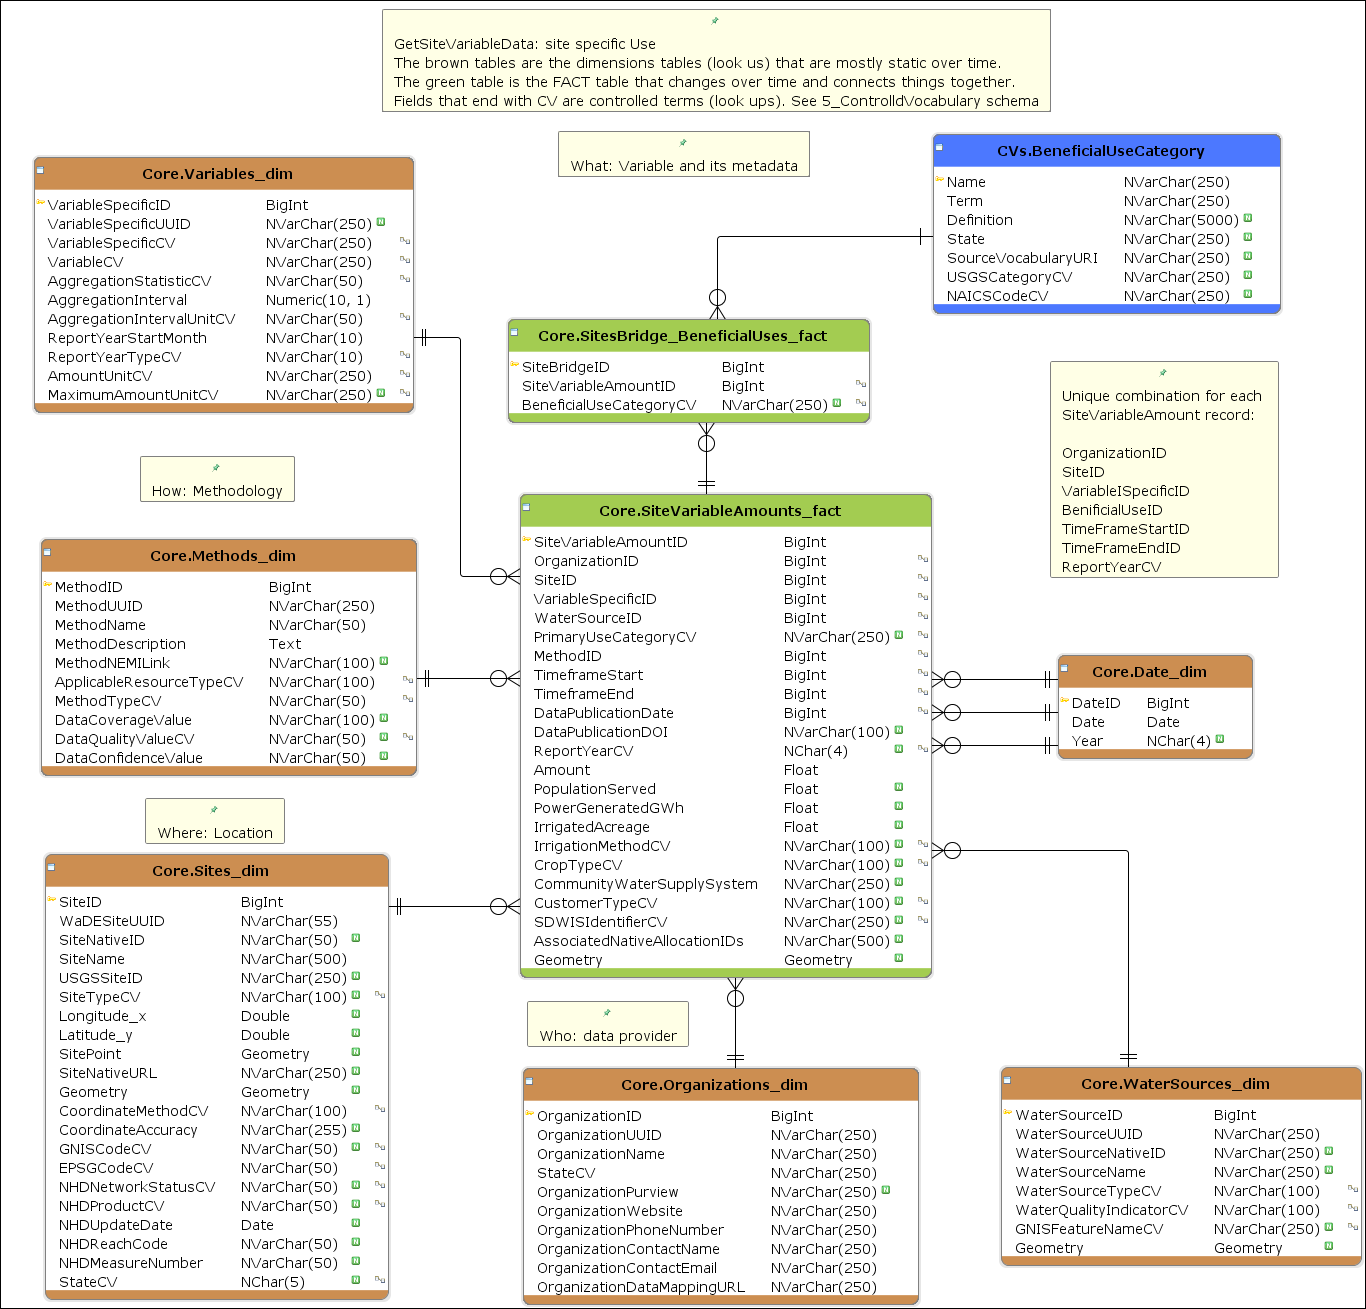
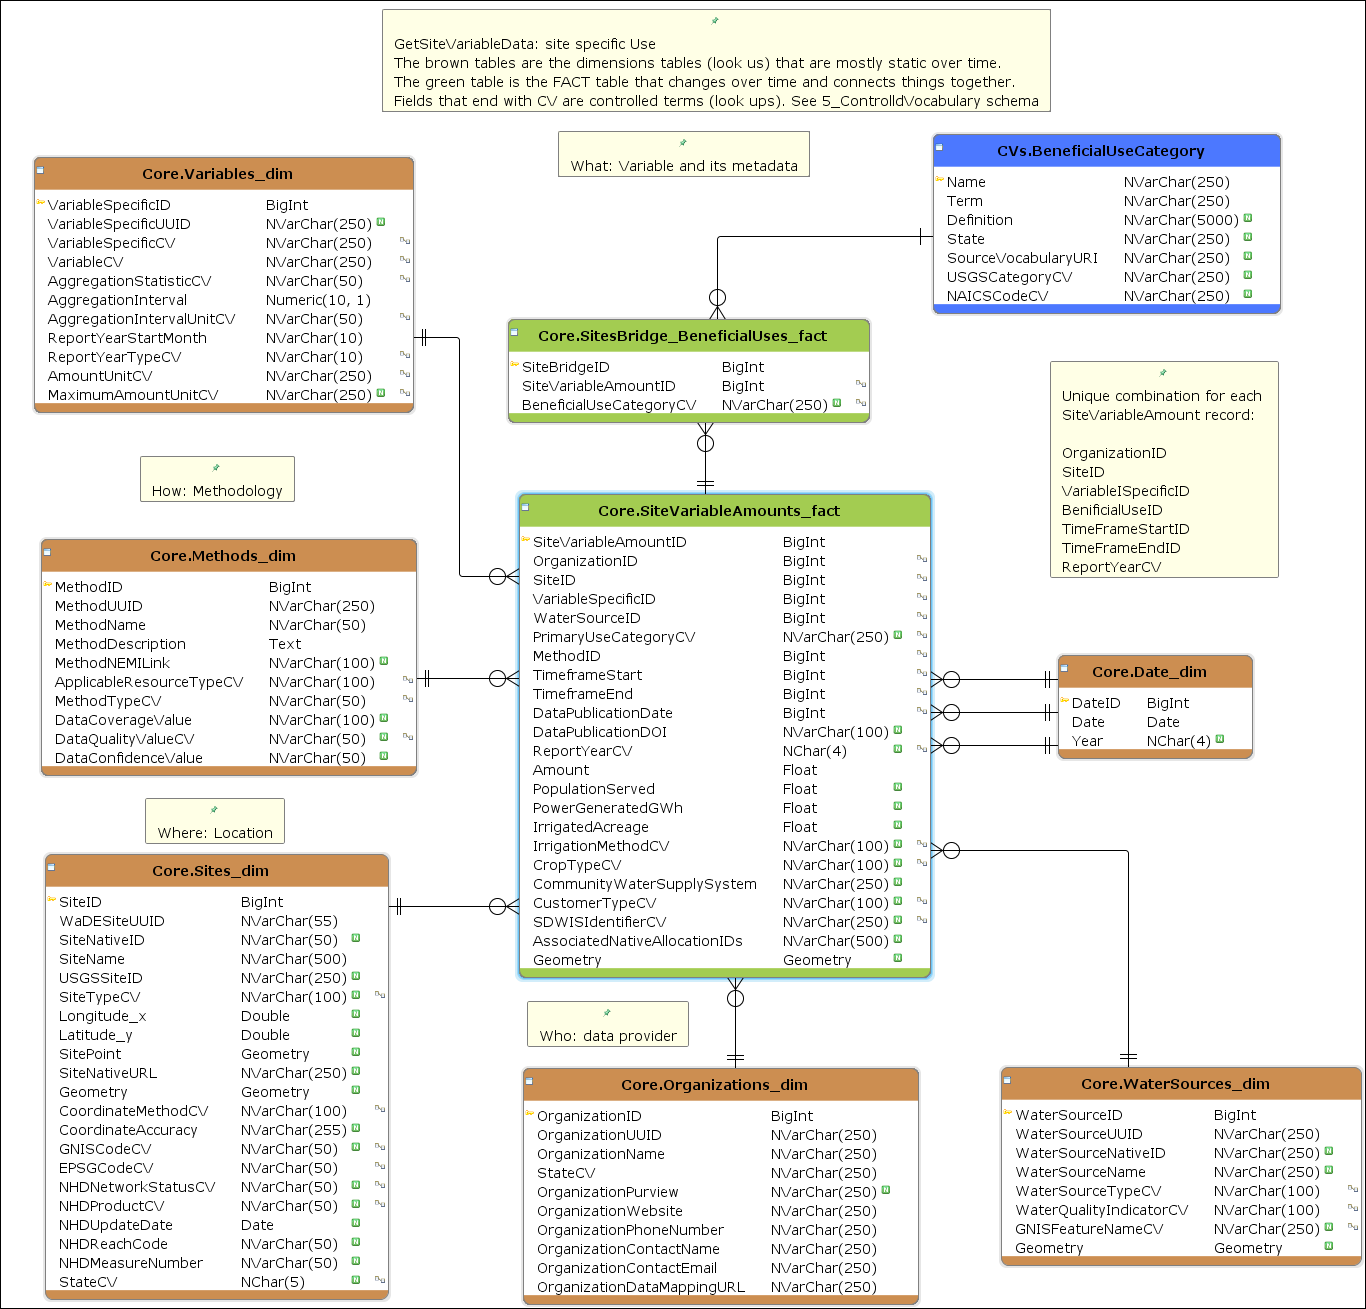
add primary benifical use to the input tables

Changed region(s): [[0.369, 0.3667, 0.7072, 0.7639]]

diff --git a/docs/tables/Input_SiteVariableAmounts_fact.html b/docs/tables/Input_SiteVariableAmounts_fact.html
@@ -36,87 +36,93 @@
 <td> </td><td><a href="../columns/Input_SiteVariableAmounts_fact_BeneficialUseCategoryCV.html">BeneficialUseCategoryCV</a></td><td>NVarChar(500)</td><td> </td><td> </td><td> </td><td> </td><td> </td>
 </tr>
 <tr>
+<td> </td><td><a href="../columns/Input_SiteVariableAmounts_fact_PrimaryUseCategoryCV.html">PrimaryUseCategoryCV</a></td><td>NVarChar(250)</td><td>
+<p class="boolImg">
+<img src="../images/ok12d.gif"></p>
+</td><td> </td><td> </td><td>If multiple beneficial uses are specified, add primary use category	</td><td> </td>
+</tr>
+<tr class="altRow">
 <td> </td><td><a href="../columns/Input_SiteVariableAmounts_fact_WaterSourceNativeID.html">WaterSourceNativeID</a></td><td>NVarChar(250)</td><td> </td><td> </td><td> </td><td>foreign key unique identifier to water source</td><td> </td>
 </tr>
-<tr class="altRow">
+<tr>
 <td> </td><td><a href="../columns/Input_SiteVariableAmounts_fact_MethodName.html">MethodName</a></td><td>NVarChar(250)</td><td> </td><td> </td><td> </td><td> </td><td> </td>
 </tr>
-<tr>
+<tr class="altRow">
 <td> </td><td><a href="../columns/Input_SiteVariableAmounts_fact_TimeframeStartDate.html">TimeframeStartDate</a></td><td>Date</td><td> </td><td> </td><td> </td><td>Start date for the allocation each year in MM/DD/YYYY</td><td> </td>
 </tr>
-<tr class="altRow">
+<tr>
 <td> </td><td><a href="../columns/Input_SiteVariableAmounts_fact_TimeframeEndDate.html">TimeframeEndDate</a></td><td>Date</td><td> </td><td> </td><td> </td><td>End date for the allocation each year in MM/DD/YYYY	</td><td> </td>
 </tr>
-<tr>
+<tr class="altRow">
 <td> </td><td><a href="../columns/Input_SiteVariableAmounts_fact_ReportYearCV.html">ReportYearCV</a></td><td>NVarChar(4)</td><td> </td><td> </td><td> </td><td>Annual reporting period that this data are valid. There is a need to ensure the annual reporting period year matches the type of year used by the data provider. For example, if the data are valid for November 2018, the annual reporting period could be 2018 or 2019 depending on whether the data provider uses a calendar or water year.</td><td> </td>
 </tr>
-<tr class="altRow">
+<tr>
 <td> </td><td><a href="../columns/Input_SiteVariableAmounts_fact_Amount.html">Amount</a></td><td>Float</td><td>
 <p class="boolImg">
 <img src="../images/ok12d.gif"></p>
 </td><td> </td><td> </td><td> </td><td> </td>
 </tr>
-<tr>
+<tr class="altRow">
 <td> </td><td><a href="../columns/Input_SiteVariableAmounts_fact_PowerGeneratedGWh.html">PowerGeneratedGWh</a></td><td>Float</td><td>
 <p class="boolImg">
 <img src="../images/ok12d.gif"></p>
 </td><td> </td><td> </td><td>GWh to be generated by the aggregated variable amount, if thermoelectric is a specified beneficial use	</td><td> </td>
 </tr>
-<tr class="altRow">
+<tr>
 <td> </td><td><a href="../columns/Input_SiteVariableAmounts_fact_IrrigationMethodCV.html">IrrigationMethodCV</a></td><td>NVarChar(100)</td><td>
 <p class="boolImg">
 <img src="../images/ok12d.gif"></p>
 </td><td> </td><td> </td><td>The irrigation method used by the irrigator. This could be Flood, Sprinkler, Micro-drip, Laser-leveled Flood, Combination, or Unspecified</td><td> </td>
 </tr>
-<tr>
+<tr class="altRow">
 <td> </td><td><a href="../columns/Input_SiteVariableAmounts_fact_CropTypeCV.html">CropTypeCV</a></td><td>NVarChar(100)</td><td>
 <p class="boolImg">
 <img src="../images/ok12d.gif"></p>
 </td><td> </td><td> </td><td>If the amount of water used is associated with an irrigated acreage of a specific crop type, this can be added. These would be Wheat, Alfalfa, Corn, Hay, etc.</td><td> </td>
 </tr>
-<tr class="altRow">
+<tr>
 <td> </td><td><a href="../columns/Input_SiteVariableAmounts_fact_IrrigatedAcreage.html">IrrigatedAcreage</a></td><td>Float</td><td>
 <p class="boolImg">
 <img src="../images/ok12d.gif"></p>
 </td><td> </td><td> </td><td>Number of acres irrigated by the aggregated variable amount, if irrigation or agriculture is a specified beneficial use</td><td> </td>
 </tr>
-<tr>
+<tr class="altRow">
 <td> </td><td><a href="../columns/Input_SiteVariableAmounts_fact_PopulationServed.html">PopulationServed</a></td><td>Float</td><td>
 <p class="boolImg">
 <img src="../images/ok12d.gif"></p>
 </td><td> </td><td> </td><td>Population served by the aggregated variable amount, If municipal or community water supply is a specified beneficial use</td><td> </td>
 </tr>
-<tr class="altRow">
+<tr>
 <td> </td><td><a href="../columns/Input_SiteVariableAmounts_fact_CommunityWaterSupplySystem.html">CommunityWaterSupplySystem</a></td><td>NVarChar(250)</td><td>
 <p class="boolImg">
 <img src="../images/ok12d.gif"></p>
 </td><td> </td><td> </td><td>If the use is municipal, the data provider can add the SDWIS identifier for the CWS. Only for site specific data. Leave it null for aggregate data</td><td> </td>
 </tr>
-<tr>
+<tr class="altRow">
 <td> </td><td><a href="../columns/Input_SiteVariableAmounts_fact_CustomerTypeCV.html">CustomerTypeCV</a></td><td>NVarChar(100)</td><td>
 <p class="boolImg">
 <img src="../images/ok12d.gif"></p>
 </td><td> </td><td> </td><td>Residential, Commercial, Industrial, Institutional, Combined, Unspecified </td><td> </td>
 </tr>
-<tr class="altRow">
+<tr>
 <td> </td><td><a href="../columns/Input_SiteVariableAmounts_fact_SDWISIdentifierCV.html">SDWISIdentifierCV</a></td><td>NVarChar(250)</td><td>
 <p class="boolImg">
 <img src="../images/ok12d.gif"></p>
 </td><td> </td><td> </td><td>If the use is municipal, the data provider can add the SDWIS identifier for the CWS</td><td> </td>
 </tr>
-<tr>
+<tr class="altRow">
 <td> </td><td><a href="../columns/Input_SiteVariableAmounts_fact_Geometry.html">Geometry</a></td><td>Geometry</td><td>
 <p class="boolImg">
 <img src="../images/ok12d.gif"></p>
 </td><td> </td><td> </td><td>Well-Known Text (WKT): The GIS objects supported by PostGIS are a superset of the "Simple Features" defined by the OpenGIS Consortium (OGC). PostGIS supports all the objects and functions specified in the OGC "Simple Features for SQL" specification.</td><td> </td>
 </tr>
-<tr class="altRow">
+<tr>
 <td> </td><td><a href="../columns/Input_SiteVariableAmounts_fact_AssociatedNativeAllocationIDs.html">AssociatedNativeAllocationIDs</a></td><td>NVarChar(500)</td><td>
 <p class="boolImg">
 <img src="../images/ok12d.gif"></p>
 </td><td> </td><td> </td><td> </td><td> </td>
 </tr>
-<tr>
+<tr class="altRow">
 <td> </td><td><a href="../columns/Input_SiteVariableAmounts_fact_DataPublicationDOI.html">DataPublicationDOI</a></td><td>NVarChar(250)</td><td>
 <p class="boolImg">
 <img src="../images/ok12d.gif"></p>

diff --git a/docs/diagrams/6_InputTables.html b/docs/diagrams/6_InputTables.html
@@ -15,8 +15,8 @@
 <br>
 <map id="imgmap" name="imgmap">
 <area coords="1092, 112, 1503, 557" href="../tables/Input_AggregatedAmounts_fact.html" shape="rect">
-<area coords="25, 106, 503, 703" href="../tables/Input_AllocationAmounts_fact.html" shape="rect">
-<area coords="582, 109, 993, 554" href="../tables/Input_SiteVariableAmounts_fact.html" shape="rect">
+<area coords="25, 105, 503, 702" href="../tables/Input_AllocationAmounts_fact.html" shape="rect">
+<area coords="581, 108, 992, 572" href="../tables/Input_SiteVariableAmounts_fact.html" shape="rect">
 <area coords="1121, 577, 1464, 699" href="../tables/Input_RegulatoryReportingUnits_fact.html" shape="rect">
 <area coords="592, 613, 935, 982" href="../tables/Input_Sites_dim.html" shape="rect">
 <area coords="4, 1002, 383, 1219" href="../tables/Input_Variables_dim.html" shape="rect">

diff --git a/docs/diagrams/1_WaterAllocations.html b/docs/diagrams/1_WaterAllocations.html
@@ -19,7 +19,7 @@
 <area coords="979, 1255, 1339, 1453" href="../tables/Core_WaterSources_dim.html" shape="rect">
 <area coords="18, 256, 397, 511" href="../tables/Core_Variables_dim.html" shape="rect">
 <area coords="510, 1241, 905, 1477" href="../tables/Core_Organizations_dim.html" shape="rect">
-<area coords="502, 497, 1001, 1170" href="../tables/Core_AllocationAmounts_fact.html" shape="rect">
+<area coords="502, 496, 1001, 1169" href="../tables/Core_AllocationAmounts_fact.html" shape="rect">
 <area coords="565, 303, 928, 406" href="../tables/Core_AllocationBridge_BeneficialUses_fact.html" shape="rect">
 <area coords="47, 1065, 390, 1510" href="../tables/Core_Sites_dim.html" shape="rect">
 <area coords="1013, 62, 1360, 241" href="../tables/CVs_BeneficialUseCategory.html" shape="rect">

diff --git a/docs/diagrams/2_SiteSpecificAmounts.html b/docs/diagrams/2_SiteSpecificAmounts.html
@@ -19,7 +19,7 @@
 <area coords="34, 157, 413, 412" href="../tables/Core_Variables_dim.html" shape="rect">
 <area coords="508, 319, 869, 422" href="../tables/Core_SitesBridge_BeneficialUses_fact.html" shape="rect">
 <area coords="45, 854, 388, 1299" href="../tables/Core_Sites_dim.html" shape="rect">
-<area coords="520, 494, 931, 977" href="../tables/Core_SiteVariableAmounts_fact.html" shape="rect">
+<area coords="519, 494, 930, 977" href="../tables/Core_SiteVariableAmounts_fact.html" shape="rect">
 <area coords="1058, 655, 1252, 758" href="../tables/Core_Date_dim.html" shape="rect">
 <area coords="523, 1068, 918, 1304" href="../tables/Core_Organizations_dim.html" shape="rect">
 <area coords="933, 134, 1280, 313" href="../tables/CVs_BeneficialUseCategory.html" shape="rect">

diff --git a/docs/diagrams/3_AggregatedAmounts.html b/docs/diagrams/3_AggregatedAmounts.html
@@ -17,7 +17,7 @@
 <area coords="42, 971, 433, 1207" href="../tables/Core_ReportingUnits_dim.html" shape="rect">
 <area coords="1051, 1032, 1411, 1230" href="../tables/Core_WaterSources_dim.html" shape="rect">
 <area coords="45, 202, 424, 457" href="../tables/Core_Variables_dim.html" shape="rect">
-<area coords="572, 421, 983, 904" href="../tables/Core_AggregatedAmounts_fact.html" shape="rect">
+<area coords="572, 420, 983, 903" href="../tables/Core_AggregatedAmounts_fact.html" shape="rect">
 <area coords="1114, 576, 1308, 679" href="../tables/Core_Date_dim.html" shape="rect">
 <area coords="542, 1006, 937, 1242" href="../tables/Core_Organizations_dim.html" shape="rect">
 <area coords="53, 580, 428, 816" href="../tables/Core_Methods_dim.html" shape="rect">

diff --git a/docs/tables/Core_SiteVariableAmounts_fact.html b/docs/tables/Core_SiteVariableAmounts_fact.html
@@ -57,7 +57,7 @@
 <td class="FkCol"> </td><td class="FkCol"><a href="../columns/Core_SiteVariableAmounts_fact_PrimaryUseCategoryCV.html">PrimaryUseCategoryCV</a></td><td class="FkCol">NVarChar(250)</td><td class="FkCol">
 <p class="boolImg">
 <img src="../images/ok12d.gif"></p>
-</td><td class="FkCol"> </td><td class="FkCol"> </td><td class="FkCol"> </td><td class="FkCol">
+</td><td class="FkCol"> </td><td class="FkCol"> </td><td class="FkCol">If multiple beneficial uses are specified, add primary use category	</td><td class="FkCol">
 <p class="boolImg">
 <img src="../images/ok12d.gif"></p>
 </td>

diff --git a/docs/tables/Input_Variables_dim.html b/docs/tables/Input_Variables_dim.html
@@ -17,7 +17,7 @@
 </div>
 <h2>Columns</h2>
 <table class="flat">
-<tr class="altRow">
+<tr>
 <td class="header">PK</td><td class="header">Name</td><td class="header">Data Type</td><td class="header">NULL</td><td class="header">Auto</td><td class="header">Default</td><td class="header">Comment</td><td class="header">FK</td>
 </tr>
 <tr>

diff --git a/docs/columns/Input_SiteVariableAmounts_fact_PrimaryUseCategoryCV.html b/docs/columns/Input_SiteVariableAmounts_fact_PrimaryUseCategoryCV.html
@@ -38,10 +38,7 @@
 <td class="key">Default</td><td class="value"> </td>
 </tr>
 <tr>
-<td class="key">FK</td><td class="value">
-<p class="boolImgHorz">
-<img src="../images/ok12d.gif"></p>
-</td>
+<td class="key">FK</td><td class="value"> </td>
 </tr>
 </table>
 </body>

diff --git a/docs/index.html b/docs/index.html
@@ -51,7 +51,7 @@
 <div class="paragraph">
 <p>
 <b>Documented with DbWrench  </b>
-<k>30 Aug 2019 - 10:17:30 AM</k>
+<k>30 Aug 2019 - 10:44:16 AM</k>
 </p>
 </div>
 </body>
